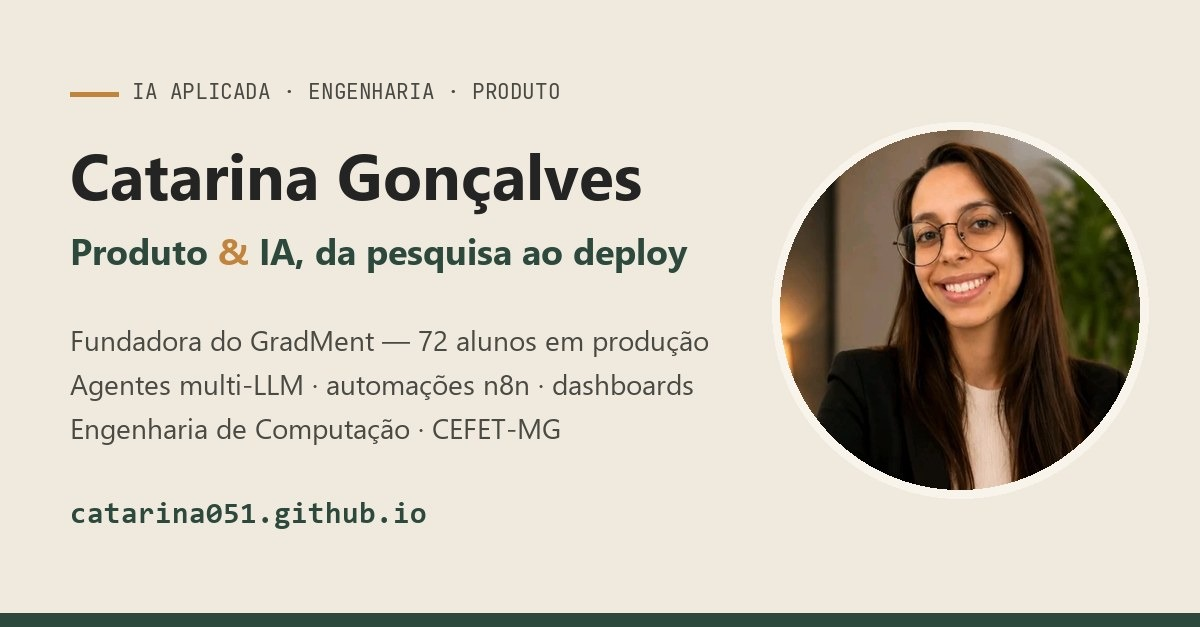
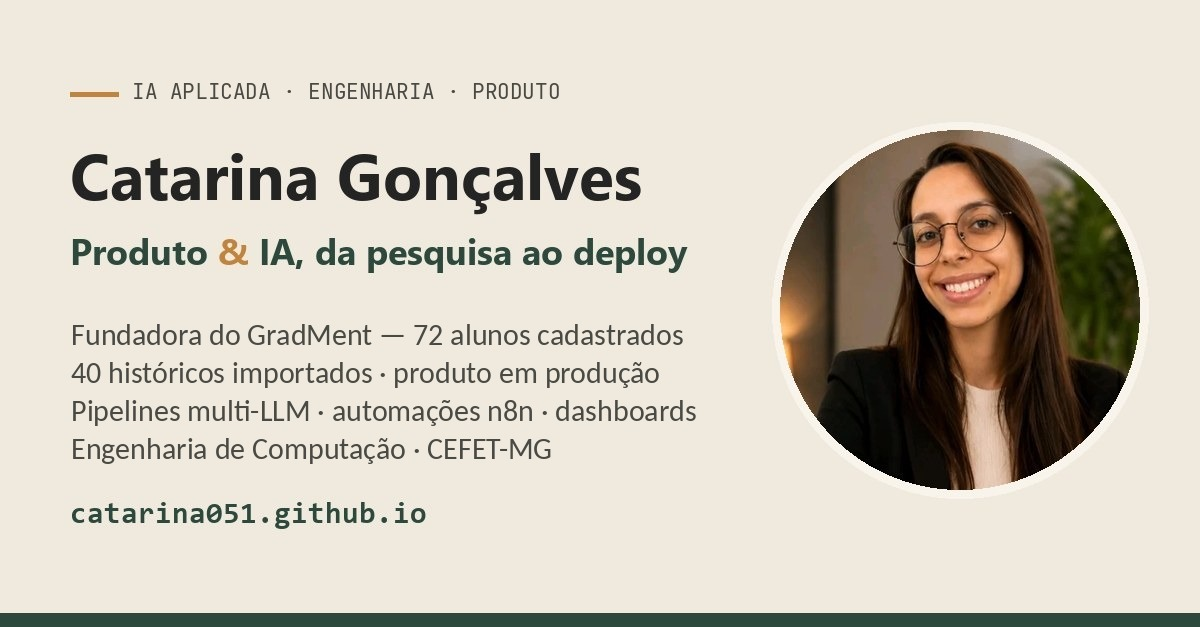
Esclarecer números do GradMent, estágios dos projetos e autonomia dos agentes (#2)
* Generalize portfolio copy for AI and product roles

Replace the AI Builder · GenAI positioning with IA Aplicada · Engenharia · Produto,
rename the recruiter checklist section to Resultados e competências, and
rewrite job-specific wording in universal professional language. Update the
og-card image to match.

Claude-Session: https://claude.ai/code/session_018oHbJ1cc2r6AQHL9SmmbFh

* Clarify GradMent numbers, project stages and agent autonomy

- Separate 72 registered students from 40 who imported their SIGAA history;
  state that registrations are not active users and no recurring-use metric exists.
- Distinguish project stages: GradMent in production, Horas Complementares
  deployed on AWS in pilot, PPC -> GradMent internal tool with reproducible
  deployment and no public evidence of continued team use.
- Describe PPC -> GradMent as a multi-LLM pipeline with fixed roles
  (extractor, auditor, judge) coordinated by n8n, with the judge triggered only
  on divergences; add an explicit autonomy note.
- Update og-card image and meta descriptions accordingly.

Claude-Session: https://claude.ai/code/session_018oHbJ1cc2r6AQHL9SmmbFh

---------

Changed region(s): [[0.0617, 0.5152, 0.5858, 0.7576]]

diff --git a/index.html b/index.html
@@ -4,12 +4,12 @@
 <meta charset="utf-8">
 <meta name="viewport" content="width=device-width, initial-scale=1">
 <title>Catarina Gonçalves · IA Aplicada, Engenharia e Produto</title>
-<meta name="description" content="Portfólio de Catarina Rodrigues Gonçalves: agentes multi-LLM, automações com n8n, dashboards e produtos de IA construídos do zero e medidos contra gabarito.">
+<meta name="description" content="Portfólio de Catarina Rodrigues Gonçalves: pipelines multi-LLM, automações com n8n, dashboards e produtos de IA construídos do zero e medidos contra gabarito.">
 <link rel="canonical" href="https://catarina051.github.io/">
 <meta property="og:type" content="website">
 <meta property="og:url" content="https://catarina051.github.io/">
 <meta property="og:title" content="Catarina Gonçalves · IA Aplicada, Engenharia e Produto">
-<meta property="og:description" content="Fundadora do GradMent, em produção com 72 alunos. Agentes multi-LLM, automações n8n e dashboards — com números medidos.">
+<meta property="og:description" content="Fundadora do GradMent, em produção: 72 alunos cadastrados e 40 históricos importados. Pipelines multi-LLM, automações n8n e dashboards — com números medidos.">
 <meta property="og:image" content="https://catarina051.github.io/assets/og-card.jpg">
 <meta property="og:image:width" content="1200">
 <meta property="og:image:height" content="627">
@@ -167,6 +167,11 @@ section.alt{background:var(--bg-2)}
 .check .q{display:block;font-family:var(--font-m);font-size:.72rem;color:var(--muted);margin-bottom:4px;letter-spacing:.04em}
 .check .a{color:var(--ink-2)}
 .check .a strong{color:var(--ink)}
+.stages{list-style:none;margin:10px 0;padding:0;display:grid;gap:10px}
+.stages li{display:grid;grid-template-columns:150px minmax(0,1fr);gap:12px;align-items:start}
+.stage{font-family:var(--font-m);font-size:.68rem;padding:4px 10px;border-radius:999px;background:var(--amber-soft);color:var(--amber-ink);font-weight:500;justify-self:start}
+.stage.prod{background:var(--green-soft);color:var(--green)}
+@media (max-width:720px){.stages li{grid-template-columns:1fr;gap:4px}}
 .proof{display:flex;flex-wrap:wrap;gap:8px;margin-top:10px}
 .proof a{display:inline-flex;align-items:center;gap:6px;min-height:32px;padding:4px 12px;border-radius:999px;background:var(--surface);border:1px solid var(--line);font-size:.82rem;font-weight:500;text-decoration:none;color:var(--green)}
 .proof a:hover{border-color:var(--green);color:var(--green)}
@@ -424,7 +429,7 @@ footer .wrap{display:flex;flex-wrap:wrap;justify-content:space-between;gap:12px}
       <div>
         <span class="eyebrow">IA Aplicada · Engenharia · Produto</span>
         <h1>Produto <span class="amp">&amp;</span> IA, da pesquisa com usuários ao deploy
-          <span class="sub">Fundei o GradMent, usado por 72 alunos, e construo com IA os agentes e as automações que o fazem crescer.</span></h1>
+          <span class="sub">Fundei o GradMent, em produção com 72 alunos cadastrados, e construo com IA os pipelines e as automações que o ajudam a crescer.</span></h1>
         <p class="lede">Sou Catarina, estudante de Engenharia de Computação no CEFET-MG. No <strong>GradMent</strong> fui da pesquisa com 77 estudantes ao produto em produção, ao teste de modelo de negócio e ao Sebrae Supernova. Para levá-lo a outras universidades, orquestrei LLMs de provedores diferentes com n8n — e uso v0 e Claude Code para colocar ideias no ar em dias.</p>
         <div class="hero-ctas">
           <a class="btn btn-primary" href="#gradment">Conhecer o GradMent <svg class="icon" aria-hidden="true"><use href="#i-down"/></svg></a>
@@ -440,10 +445,10 @@ footer .wrap{display:flex;flex-wrap:wrap;justify-content:space-between;gap:12px}
       </div>
     </div>
     <div class="kpis" role="list">
-      <div class="kpi" role="listitem"><b>72</b><span>alunos cadastrados no GradMent, produto em produção</span><small>40 históricos importados · nov/2026</small></div>
+      <div class="kpi" role="listitem"><b>72 · 40</b><span>alunos cadastrados no GradMent · destes, 40 importaram o histórico do SIGAA</span><small>produto em produção · banco de produção, nov/2026</small></div>
       <div class="kpi" role="listitem"><b>3,0 → 4,6</b><span>confiança do aluno na grade montada, sem e com o GradMent</span><small>teste com 7 usuários do beta</small></div>
       <div class="kpi" role="listitem"><b>99/99</b><span>disciplinas extraídas por IA de um PPC real, para abrir novas universidades</span><small>3 LLMs · 7 min por PPC · custo zero</small></div>
-      <div class="kpi" role="listitem"><b>22 → &lt;2 min</b><span>por certificado de horas complementares com n8n + Gemini</span><small>medido pela autora · piloto em uso</small></div>
+      <div class="kpi" role="listitem"><b>22 → &lt;2 min</b><span>por certificado de horas complementares com n8n + Gemini</span><small>medido pela autora · implantado na AWS, em piloto</small></div>
     </div>
   </div>
 </section>
@@ -512,11 +517,11 @@ footer .wrap{display:flex;flex-wrap:wrap;justify-content:space-between;gap:12px}
 
     <!-- Tração -->
     <div class="traction reveal">
-      <div class="tr-head"><span class="eyebrow light">Tração · banco de produção, 07/11/2026</span><p>Números de um produto pequeno e novo, não de escala — sem contas de teste.</p></div>
+      <div class="tr-head"><span class="eyebrow light">Tração · banco de produção, 07/11/2026</span><p>Números de um produto pequeno e novo, não de escala — sem contas de teste. Cadastro não é usuário ativo: não há métrica de uso recorrente, e por isso ele não é afirmado aqui.</p></div>
       <div class="tr-grid">
         <div><b>72</b><span>alunos cadastrados</span></div>
-        <div><b>40</b><span>enviaram o histórico</span></div>
-        <div><b>1.739</b><span>linhas de histórico importadas</span></div>
+        <div><b>40</b><span>importaram o histórico do SIGAA (56% dos cadastrados)</span></div>
+        <div><b>1.739</b><span>linhas de histórico importadas desses 40 alunos</span></div>
         <div><b>121</b><span>avaliações de disciplinas</span></div>
         <div><b>315</b><span>disciplinas no catálogo</span></div>
         <div><b>18</b><span>cadastros numa única recepção de calouros</span></div>
@@ -528,7 +533,7 @@ footer .wrap{display:flex;flex-wrap:wrap;justify-content:space-between;gap:12px}
       <div>
         <span class="eyebrow">Escala com IA</span>
         <h3>Como o GradMent sai de Leopoldina</h3>
-        <p>Cadastrar um curso novo era trabalho manual. Construí o pipeline de agentes <a href="#p-ppc">PPC → GradMent</a>: três LLMs convertem o projeto pedagógico de qualquer universidade na matriz que o produto importa. A segunda universidade (UNIFEI) saiu com 98,6% das disciplinas corretas.</p>
+        <p>Cadastrar um curso novo era trabalho manual. Construí o pipeline multi-LLM <a href="#p-ppc">PPC → GradMent</a>, coordenado pelo n8n: três LLMs, com papéis distintos, convertem o projeto pedagógico de qualquer universidade na matriz que o produto importa. A segunda universidade (UNIFEI) saiu com 98,6% das disciplinas corretas.</p>
       </div>
       <ol class="road">
         <li><b>CEFET-MG Leopoldina</b><span>~540 alunos de engenharia · onde começamos</span></li>
@@ -563,13 +568,13 @@ footer .wrap{display:flex;flex-wrap:wrap;justify-content:space-between;gap:12px}
         <li class="check">
           <span class="check-ico" aria-hidden="true"><svg class="icon"><use href="#i-check"/></svg></span>
           <div><span class="q">01</span><h4>Automações com economia de tempo mensurável</h4></div>
-          <div class="a"><strong>Horas complementares:</strong> preparar um certificado para o SIGAA levava <strong>21 min 49 s</strong> à mão; com o pipeline n8n + Gemini cai para <strong>menos de 2 min</strong>. <strong>PPC → GradMent:</strong> abrir uma nova universidade deixou de exigir digitar ~100 disciplinas e 100+ pré-requisitos — a máquina entrega a matriz validada em 7 min.
+          <div class="a"><strong>Horas complementares:</strong> preparar um certificado para o SIGAA levava <strong>21 min 49 s</strong> à mão; com o pipeline n8n + Gemini cai para <strong>menos de 2 min</strong>. <strong>PPC → GradMent:</strong> o pipeline entrega a matriz validada de um PPC real (~100 disciplinas e 100+ pré-requisitos) em 7 min, em vez de digitação manual.
             <div class="proof"><a href="#p-horas">Ver caso <svg class="icon" aria-hidden="true"><use href="#i-arrow"/></svg></a><a href="#p-ppc">Ver caso PPC <svg class="icon" aria-hidden="true"><use href="#i-arrow"/></svg></a></div></div>
         </li>
         <li class="check">
           <span class="check-ico" aria-hidden="true"><svg class="icon"><use href="#i-check"/></svg></span>
-          <div><span class="q">02</span><h4>Ferramentas e sistemas em produção</h4></div>
-          <div class="a"><strong>GradMent em produção</strong>, com 72 alunos e histórico do SIGAA importado de verdade. Pipeline de horas complementares em <strong>Docker numa VM AWS</strong>, em piloto com os primeiros estudantes, sem login e sem guardar dado pessoal. Conversor de PPC empacotado com script de implantação para o time do GradMent. A rotina de horas também virou <strong>skill própria do Claude Code</strong>.
+          <div><span class="q">02</span><h4>Ferramentas e sistemas, por estágio</h4></div>
+          <div class="a">Três projetos, em três estágios diferentes — implantação, piloto e uso efetivo não são a mesma coisa:<ul class="stages"><li><span class="stage prod">Em produção</span><span><strong>GradMent:</strong> 72 alunos cadastrados, 40 com histórico do SIGAA importado. Sem métrica de uso recorrente.</span></li><li><span class="stage pilot">Implantado · piloto</span><span><strong>Horas complementares:</strong> Docker numa VM AWS, em piloto com os primeiros estudantes, sem login e sem guardar dado pessoal. Adesão ainda não medida.</span></li><li><span class="stage repro">Implantação reproduzível</span><span><strong>PPC → GradMent:</strong> ferramenta interna empacotada, com script de implantação para o time do GradMent. Sem comprovação pública de uso contínuo pela equipe.</span></li></ul>A rotina de horas também virou <strong>skill própria do Claude Code</strong>.
             <div class="proof"><a href="#gradment">GradMent <svg class="icon" aria-hidden="true"><use href="#i-arrow"/></svg></a><a href="https://github.com/catarina051/horas-complementares-ia" target="_blank" rel="noopener">horas-complementares-ia <svg class="icon" aria-hidden="true"><use href="#i-ext"/></svg></a><a href="https://github.com/catarina051/ppc-gradment-ia" target="_blank" rel="noopener">ppc-gradment-ia <svg class="icon" aria-hidden="true"><use href="#i-ext"/></svg></a></div></div>
         </li>
         <li class="check">
@@ -580,8 +585,8 @@ footer .wrap{display:flex;flex-wrap:wrap;justify-content:space-between;gap:12px}
         </li>
         <li class="check">
           <span class="check-ico" aria-hidden="true"><svg class="icon"><use href="#i-check"/></svg></span>
-          <div><span class="q">04</span><h4>Agentes de IA aplicados a problemas reais</h4></div>
-          <div class="a">Três agentes — <strong>extratora, auditora e juíza</strong>, cada um num provedor diferente — destravam o maior gargalo de crescimento do GradMent: cadastrar o curso de cada nova universidade. Comparado a um único LLM de ponta (US$ 3,08/PPC), o pipeline acerta <strong>98,0% vs 57,1%</strong> na classificação obrigatória/optativa e entrega um JSON que o produto aceita, <strong>a custo zero</strong>.
+          <div><span class="q">04</span><h4>Pipeline multi-LLM aplicado a um problema real</h4></div>
+          <div class="a">O PPC → GradMent é um <strong>pipeline multi-LLM com papéis especializados</strong>: <strong>extratora, auditora e juíza</strong>, cada uma num provedor diferente. O <strong>n8n coordena o workflow</strong>, em etapas fixas; os modelos executam tarefas específicas, e a juíza só é acionada quando extratora e auditora divergem. Ataca o maior gargalo de crescimento do GradMent: cadastrar o curso de cada nova universidade. Comparado a um único LLM de ponta (US$ 3,08/PPC), o pipeline acerta <strong>98,0% vs 57,1%</strong> na classificação obrigatória/optativa e entrega um JSON que o produto aceita, <strong>a custo zero</strong>.
             <div class="proof"><a href="#p-ppc">Ver arquitetura <svg class="icon" aria-hidden="true"><use href="#i-arrow"/></svg></a></div></div>
         </li>
         <li class="check">
@@ -604,7 +609,7 @@ footer .wrap{display:flex;flex-wrap:wrap;justify-content:space-between;gap:12px}
         </li>
         <li class="check">
           <span class="check-ico" aria-hidden="true"><svg class="icon"><use href="#i-check"/></svg></span>
-          <div><span class="q">07</span><h4>Orquestração de agentes e múltiplos LLMs</h4></div>
+          <div><span class="q">07</span><h4>Orquestração de múltiplos LLMs em workflows</h4></div>
           <div class="a">Cada papel do pipeline troca de provedor sem mudar código: <strong>Gemini, OpenAI (GPT), Anthropic (Claude), Groq, OpenRouter e Mistral</strong>, com <em>fallback</em> automático. Medido em produção: Gemini + Nemotron + GPT-OSS 120B; Claude Opus como linha de base comparativa. No dia a dia, desenvolvo com Claude Code e skills próprias.
             <div class="proof"><a href="#p-ppc">Pipeline multi-LLM <svg class="icon" aria-hidden="true"><use href="#i-arrow"/></svg></a><a href="#p-skillcord">Skillcord <svg class="icon" aria-hidden="true"><use href="#i-arrow"/></svg></a></div></div>
         </li>
@@ -665,12 +670,13 @@ footer .wrap{display:flex;flex-wrap:wrap;justify-content:space-between;gap:12px}
         </div>
       </div>
       <div>
-        <div class="case-tags"><span class="tag g">Agentes multi-LLM</span><span class="tag">n8n</span><span class="tag">Prompt engineering</span><span class="tag">Problema de negócio</span></div>
-        <h3>PPC → GradMent: três IAs que discordam de propósito</h3>
-        <p class="pitch">A IA que leva o GradMent a outras universidades: transforma o projeto pedagógico de qualquer curso na matriz curricular que o produto importa.</p>
+        <div class="case-tags"><span class="tag g">Pipeline multi-LLM</span><span class="tag">n8n</span><span class="tag">Prompt engineering</span><span class="tag">Problema de negócio</span></div>
+        <h3>PPC → GradMent: três LLMs com papéis fixos, e uma juíza para as divergências</h3>
+        <p class="pitch">Pipeline multi-LLM com papéis especializados (extratora, auditora e juíza) para levar o GradMent a outras universidades: transforma o projeto pedagógico de qualquer curso na matriz curricular que o produto importa.</p>
         <dl class="psr">
           <div><dt>Problema</dt><dd>O GradMent só aceitava o layout do CEFET-MG. Cada nova universidade exigia digitar à mão <strong>~100 disciplinas e 100+ pré-requisitos</strong> — um gargalo direto de crescimento.</dd></div>
-          <div><dt>Solução</dt><dd>Duas IAs leem o PPC em <strong>sentidos opostos</strong>; o código compara; só as divergências vão para uma <strong>juíza em outro provedor</strong>, que precisa citar a página. Um validador determinístico barra ciclos e erros de tipo antes de qualquer JSON sair.</dd></div>
+          <div><dt>Solução</dt><dd>Um workflow no <strong>n8n</strong> coordena as etapas. A extratora e a auditora leem o PPC em <strong>sentidos opostos</strong>; o código compara; só as divergências acionam a <strong>juíza, em outro provedor</strong>, que precisa citar a página. Um validador determinístico barra ciclos e erros de tipo antes de qualquer JSON sair.</dd></div>
+          <div><dt>Autonomia</dt><dd>Fluxo e papéis definidos por mim: cada modelo executa uma tarefa específica. O sistema <strong>não planeja passos nem escolhe ferramentas por conta própria</strong>; a ordem das etapas e o acionamento da juíza são regras do workflow.</dd></div>
           <div><dt>Aprendizado</dt><dd>Duas IAs concordando não quer dizer que estão certas: quando o <em>fallback</em> colocou as duas no mesmo modelo, elas erraram igual. Diversidade de provedor virou regra.</dd></div>
         </dl>
         <div class="metrics">
@@ -686,7 +692,7 @@ footer .wrap{display:flex;flex-wrap:wrap;justify-content:space-between;gap:12px}
           <a class="btn btn-primary" href="https://github.com/catarina051/ppc-gradment-ia" target="_blank" rel="noopener"><svg class="icon" aria-hidden="true"><use href="#i-gh"/></svg> Código</a>
           <a class="btn btn-ghost" href="https://gradment.vercel.app" target="_blank" rel="noopener"><svg class="icon" aria-hidden="true"><use href="#i-chart"/></svg> Dashboard de resultados</a>
         </div>
-        <p class="note">9 execuções reais em 05/11/2026, medidas contra gabarito. 43 commits num único dia.</p>
+        <p class="note">9 execuções reais em 05/11/2026, medidas contra gabarito. 43 commits num único dia. Estágio: ferramenta interna com implantação reproduzível (Docker + script de implantação); não há comprovação pública de uso contínuo pela equipe.</p>
       </div>
     </article>
 
@@ -696,7 +702,7 @@ footer .wrap{display:flex;flex-wrap:wrap;justify-content:space-between;gap:12px}
         <figure class="shot"><img src="assets/horas-resultado.webp" loading="lazy" width="1000" height="1100" alt="Página de resultado com código ECL2023, opção do SIGAA, descrição e cálculo de 24 horas-aula para um certificado fictício"><figcaption>Resultado para um certificado fictício: categoria, opção do SIGAA e cálculo rastreável.</figcaption></figure>
       </div>
       <div>
-        <div class="case-tags"><span class="tag g">Automação que economiza horas</span><span class="tag">Ferramenta deployada</span><span class="tag">n8n + Gemini</span></div>
+        <div class="case-tags"><span class="tag g">Automação que economiza horas</span><span class="tag">Implantada na AWS · piloto</span><span class="tag">n8n + Gemini</span></div>
         <h3>Horas complementares: do certificado ao PDF pronto para o SIGAA</h3>
         <p class="pitch">O aluno envia o certificado; recebe o documento classificado, calculado e pronto para submeter.</p>
         <dl class="psr">
@@ -714,7 +720,7 @@ footer .wrap{display:flex;flex-wrap:wrap;justify-content:space-between;gap:12px}
           <a class="btn btn-primary" href="https://github.com/catarina051/horas-complementares-ia" target="_blank" rel="noopener"><svg class="icon" aria-hidden="true"><use href="#i-gh"/></svg> Código</a>
           <a class="btn btn-ghost" href="https://lnkd.in/p/dp4rEizz" target="_blank" rel="noopener"><svg class="icon" aria-hidden="true"><use href="#i-play"/></svg> Vídeo do processo</a>
         </div>
-        <p class="note">Amostra pequena, medida pela autora. A projeção de ~99 h economizadas por semestre é uma estimativa teórica: a adesão ainda não foi medida.</p>
+        <p class="note">Estágio: implantada em Docker numa VM AWS, em piloto com os primeiros estudantes. Amostra pequena, medida pela autora. A projeção de ~99 h economizadas por semestre é uma estimativa teórica: a adesão ainda não foi medida.</p>
       </div>
     </article>
 
@@ -813,7 +819,7 @@ footer .wrap{display:flex;flex-wrap:wrap;justify-content:space-between;gap:12px}
       <p>Em destaque, o que está em projeto público. Escolho a ferramenta mais simples que resolve — e troco de provedor sem reescrever o fluxo.</p>
     </div>
     <div class="stack-grid reveal">
-      <div class="stack-box"><h4><svg class="icon" aria-hidden="true"><use href="#i-bot"/></svg> LLMs e agentes</h4><p class="why">Orquestração multi-provedor com fallback</p><div class="chips"><span class="chip strong">Gemini</span><span class="chip strong">GPT-OSS 120B · Groq</span><span class="chip strong">Nemotron · OpenRouter</span><span class="chip strong">Claude Opus</span><span class="chip">OpenAI</span><span class="chip">Mistral</span><span class="chip">JSON Schema</span></div></div>
+      <div class="stack-box"><h4><svg class="icon" aria-hidden="true"><use href="#i-bot"/></svg> LLMs e workflows</h4><p class="why">Orquestração multi-provedor com fallback</p><div class="chips"><span class="chip strong">Gemini</span><span class="chip strong">GPT-OSS 120B · Groq</span><span class="chip strong">Nemotron · OpenRouter</span><span class="chip strong">Claude Opus</span><span class="chip">OpenAI</span><span class="chip">Mistral</span><span class="chip">JSON Schema</span></div></div>
       <div class="stack-box"><h4><svg class="icon" aria-hidden="true"><use href="#i-flow"/></svg> Automação</h4><p class="why">Fluxos de ponta a ponta com testes em volta</p><div class="chips"><span class="chip strong">n8n</span><span class="chip strong">Webhooks</span><span class="chip">Tesseract / PyMuPDF OCR</span><span class="chip">Gotenberg</span><span class="chip">Docker</span><span class="chip">AWS</span></div></div>
       <div class="stack-box"><h4><svg class="icon" aria-hidden="true"><use href="#i-wand"/></svg> Vibe coding</h4><p class="why">Da ideia à tela no ar em horas</p><div class="chips"><span class="chip strong">Claude Code</span><span class="chip strong">v0</span><span class="chip">Skills próprias</span><span class="chip">Vercel</span></div></div>
       <div class="stack-box"><h4><svg class="icon" aria-hidden="true"><use href="#i-api"/></svg> Front e APIs</h4><p class="why">Rotas serverless e integrações</p><div class="chips"><span class="chip strong">Next.js</span><span class="chip strong">React</span><span class="chip">TypeScript</span><span class="chip">Tailwind · shadcn/ui</span><span class="chip">API REST</span><span class="chip">API da Meta</span><span class="chip">Flutter</span></div></div>
@@ -847,7 +853,7 @@ footer .wrap{display:flex;flex-wrap:wrap;justify-content:space-between;gap:12px}
     </div>
     <div class="tl-grid">
       <ol class="timeline reveal">
-        <li class="now"><span class="when">mar/2026 — hoje</span><h4>Fundadora &amp; Product Manager</h4><span class="org">GradMent</span><p>Do questionário com 77 estudantes ao produto em produção com 72 alunos. Roadmap, precificação do Plus, equipe de 3 estudantes em Scrum, Sebrae Supernova 2026, registro no INPI e documentação LGPD. Claude e Claude Code no processo, com validação humana. <a href="#gradment">Ver o caso</a></p></li>
+        <li class="now"><span class="when">mar/2026 — hoje</span><h4>Fundadora &amp; Product Manager</h4><span class="org">GradMent</span><p>Do questionário com 77 estudantes ao produto em produção, com 72 alunos cadastrados e 40 históricos importados. Roadmap, precificação do Plus, equipe de 3 estudantes em Scrum, Sebrae Supernova 2026, registro no INPI e documentação LGPD. Claude e Claude Code no processo, com validação humana. <a href="#gradment">Ver o caso</a></p></li>
         <li class="now"><span class="when">jan/2026 — hoje</span><h4>Bolsista FAPEMIG · Produto e Mobile</h4><span class="org">CEFET-MG · FilaZero (SUS)</span><p>Entrevistas com profissionais de saúde, fluxo em BPMN, protótipos no Figma guiados por WCAG 2.1 e eMAG, arquitetura em 4 módulos e telas em Flutter.</p></li>
         <li><span class="when">mai — ago/2025</span><h4>Instrutora de informática</h4><span class="org">CEFET-MG · Programa Mulheres Mil</span><p>Curso de 260 h para mulheres em vulnerabilidade social, turmas de 16 a mais de 50 anos.</p></li>
         <li><span class="when">jun — nov/2024</span><h4>Desenvolvedora web</h4><span class="org">Zé do Lead</span><p>Integração com a API da Meta para trazer métricas de leads à plataforma; React.js e PHP em time ágil.</p></li>
